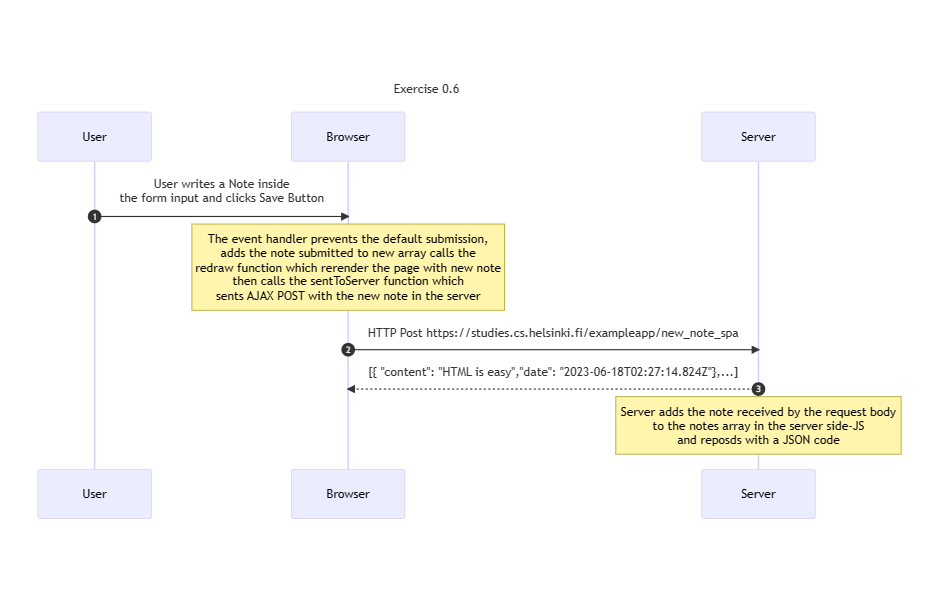
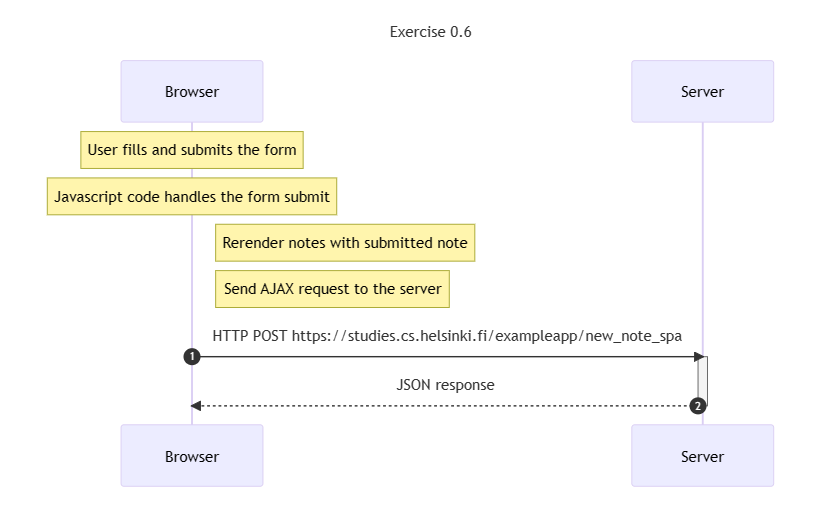
part0 revisited and mistakes corrected

diff --git a/part0/exercise 0.6/0.6 New note in Single page app diagram.md b/part0/exercise 0.6/0.6 New note in Single page app diagram.md
@@ -2,13 +2,12 @@ sequenceDiagram
 Title Exercise 0.6
 AutoNumber
 
-participant User
 participant Browser
 participant Server
 
-User->> Browser: User writes a Note inside <br> the form input and clicks Save Button
-Note over Browser: The event handler prevents the default submission, <br> adds the note submitted to new array calls the <br> redraw function which rerender the page with new note <br> then calls the sentToServer function which <br> sents AJAX POST with the new note in the server
-Browser->> Server: HTTP Post https://studies.cs.helsinki.fi/exampleapp/new_note_spa
-
-Server -->> Browser: [{ "content": "HTML is easy","date": "2023-06-18T02:27:14.824Z"},...]
-Note over Server: Server adds the note received by the request body <br> to the notes array in the server side-JS <br> and reposds with a JSON code
+Note over Browser: User fills and submits the form
+Note over Browser: Javascript code handles the form submit
+Note right of Browser: Rerender notes with submitted note
+Note right of Browser: Send AJAX request to the server
+Browser->>+ Server: HTTP POST https://studies.cs.helsinki.fi/exampleapp/new_note_spa
+Server-->>- Browser: JSON response

diff --git a/part0/exercise 0.5/0.5 Single page app diagram.md b/part0/exercise 0.5/0.5 Single page app diagram.md
@@ -1,11 +1,17 @@
 sequenceDiagram
 Title Exercise 0.5
+AutoNumber
 
 participant Browser
 participant Server
 
-Browser->> Server: GET https://studies.cs.helsinki.fi/exampleapp/spa
-Server-->> Browser: GET https://studies.cs.helsinki.fi/exampleapp/main.css
-Server -->> Browser: GET https://studies.cs.helsinki.fi/exampleapp/spa.js
-Server -->> Browser: GET https://studies.cs.helsinki.fi/exampleapp/data.json
-Note over Server: Renders the webpage
+Browser->>+ Server: HTTP GET https://studies.cs.helsinki.fi/exampleapp/spa
+Server-->>- Browser: HTML document
+Browser ->>+ Server: HTTP Get https://studies.cs.helsinki.fi/exampleapp/main.css
+Server -->>- Browser: main.css
+Browser ->>+ Server: HTTP GET https://studies.cs.helsinki.fi/exampleapp/spa.js
+Server -->>- Browser: spa.js
+Note over Browser: Browser starts executing JS code <br> that requests JSON data from the server
+Browser ->>+ Server: HTTP Get https://studies.cs.helsinki.fi/exampleapp/data.json
+Server -->>- Browser: [{ "content": "HTML is easy","date": "2023-06-18T02:27:14.824Z"},...]
+Note over Browser: Browser executes Javascript event handler <br> that renders Notes to the display
